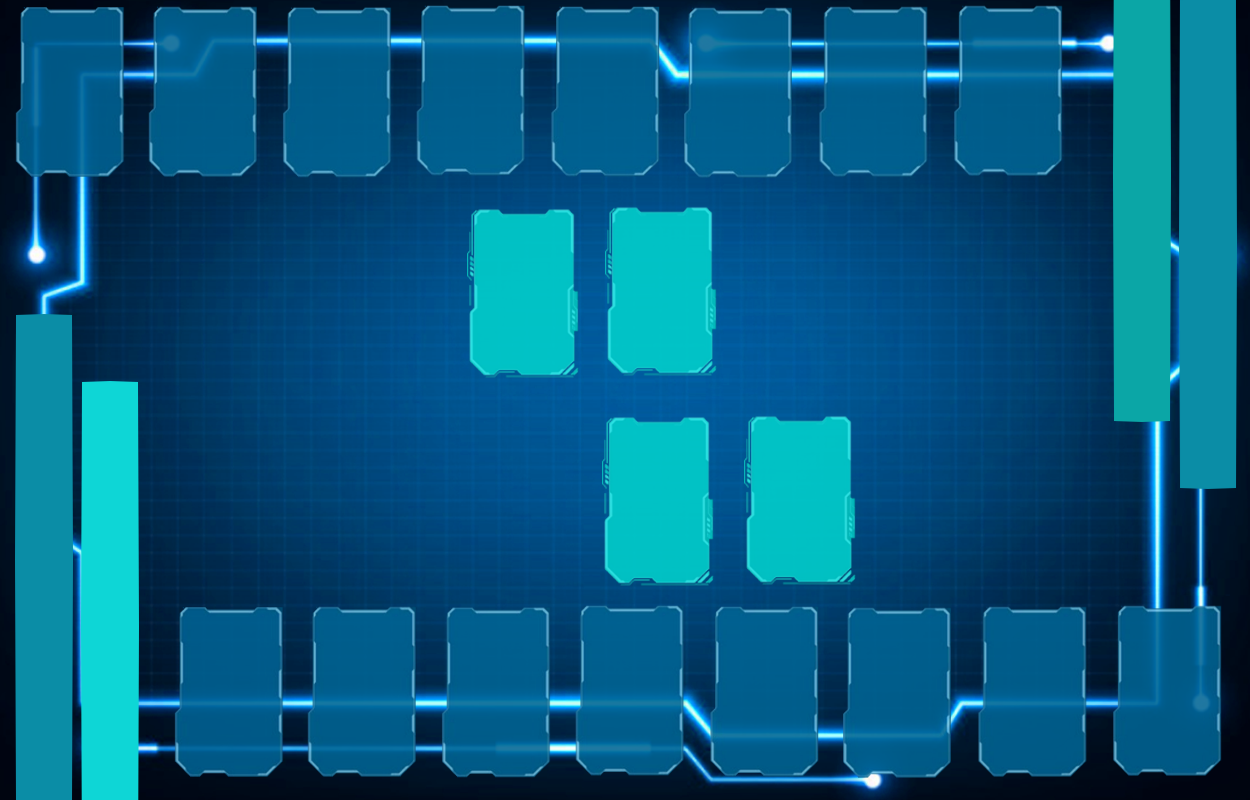
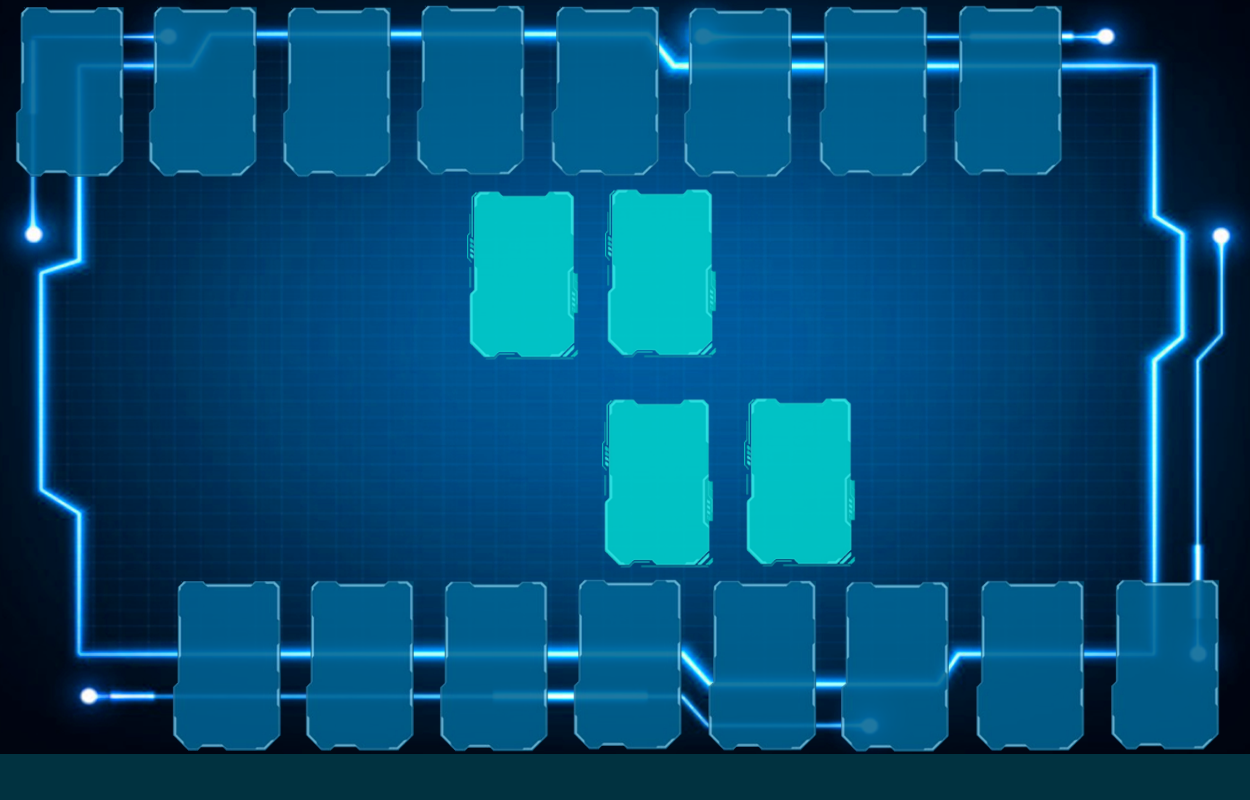
Se añade Fondo

diff --git a/src/com/DuelLinks/CardGameplay/GameplayMenu.java b/src/com/DuelLinks/CardGameplay/GameplayMenu.java
@@ -26,9 +26,15 @@ public class GameplayMenu {
         this.opponentSocketNum = opponentSocketNum;
         this.myTurn = myTurn;
 
+        JLabel gameBackgroundLabel = new JLabel(new ImageIcon("Images\\FondoJuego.png"));
+        gameBackgroundLabel.setLayout(null);
+        mainPanel.add(gameBackgroundLabel);
+
         finishTurnButton = new JButton("Finish Turn");
         finishTurnButton.setBounds(600,450,150,50);
         finishTurnButton.setFont(new Font("Copperplate Gothic Bold",Font.PLAIN,25));
+
+        gameBackgroundLabel.add(finishTurnButton);
 
         class EndTurnEvent implements ActionListener {
 
